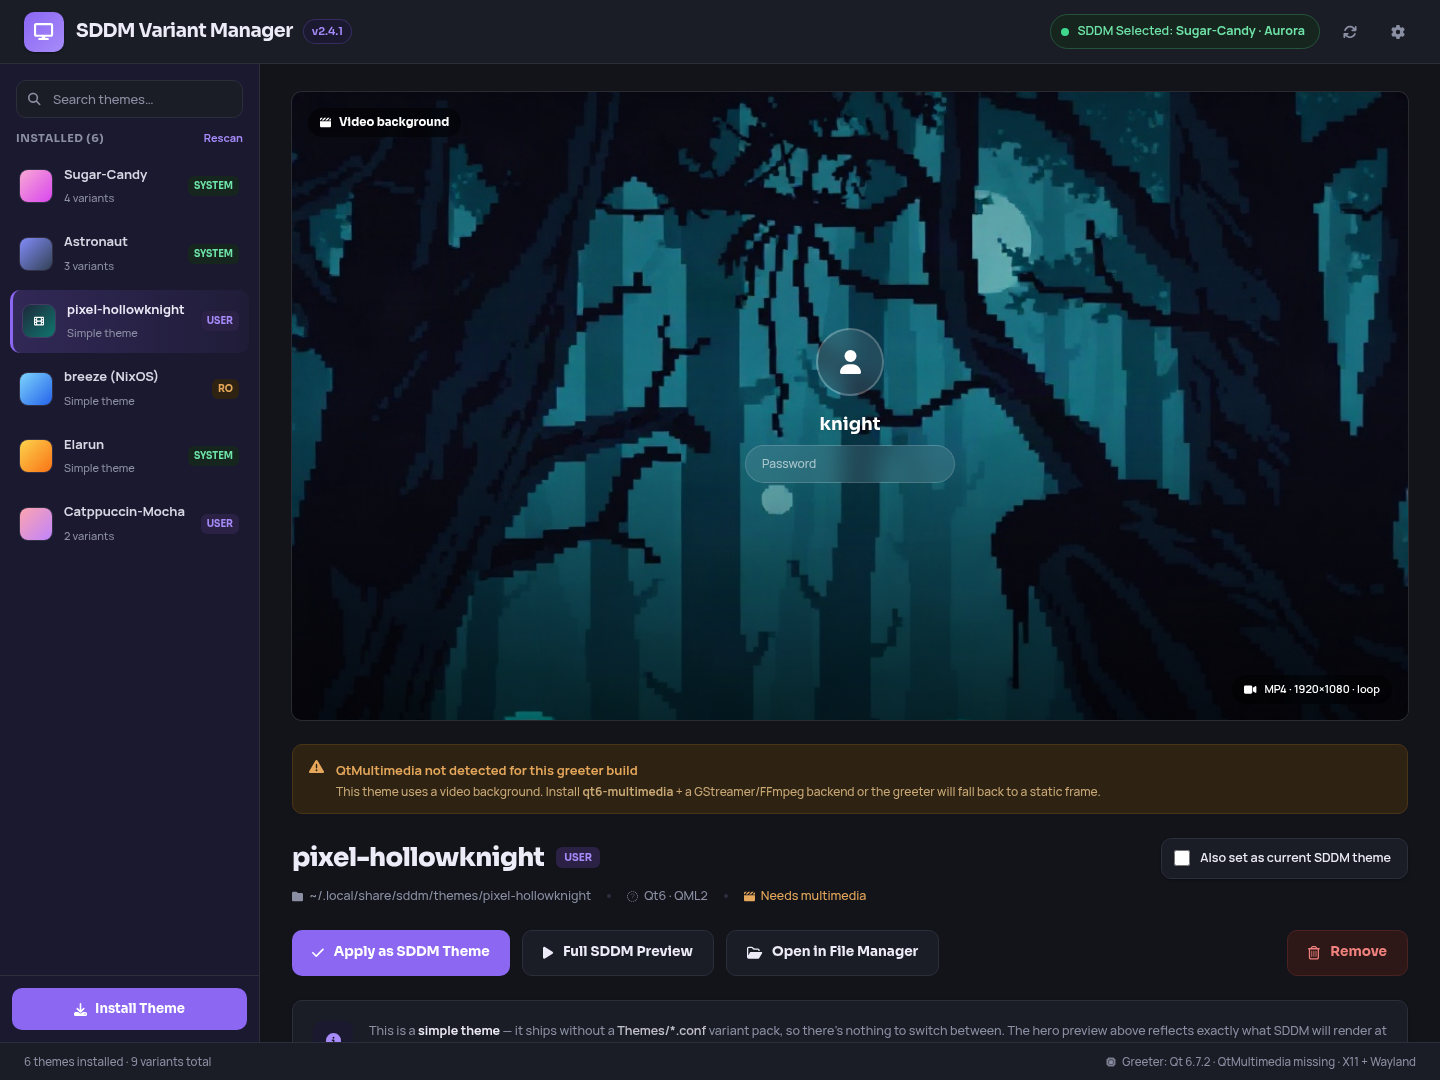
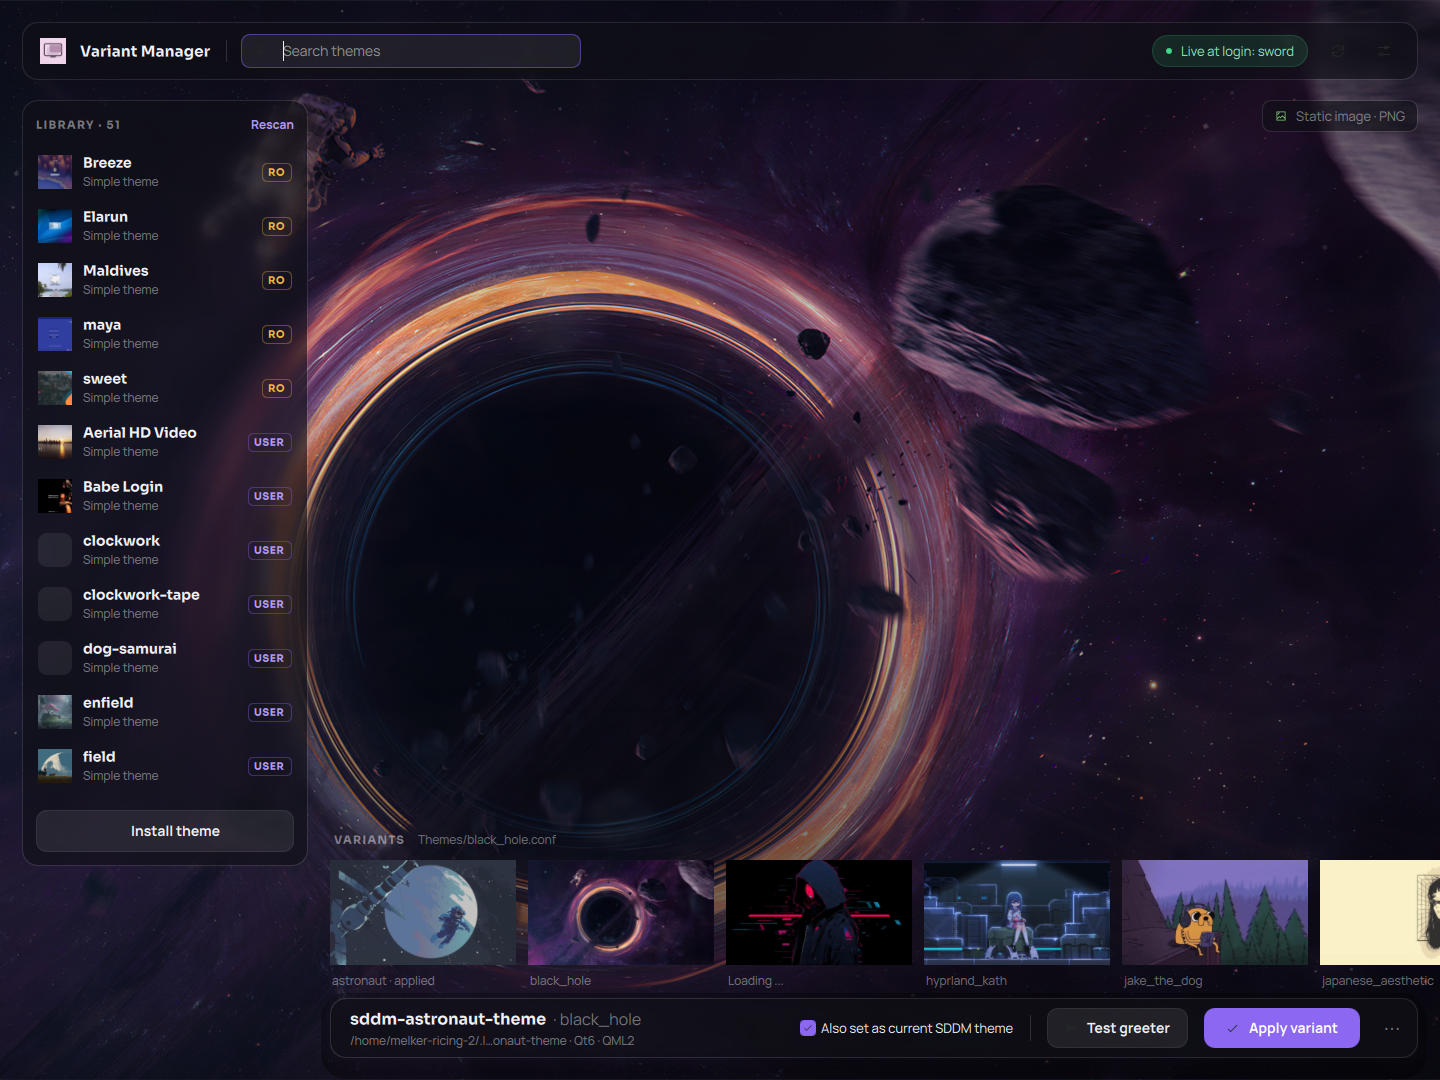
release: 2.4.0 — Palco redesign
Bumps the version everywhere (CMakeLists, main.cpp, Main.qml
appVersion, nix/package.nix, Arch PKGBUILD, appdata.xml release
history) and updates the README and screenshots for the "Palco"
redesign that shipped since the last release (2.3.0 was still the
sidebar+card design):

- New screenshots (light + dark) showing the full-window preview,
  floating glass panels, and filmstrip.
- Usage steps updated for the current button labels (Test greeter,
  Apply variant/theme, the overflow menu, the diagnostics panel).
- Documents layer-shell-qt as an optional dependency (Test Greeter's
  floating status/exit bar on Hyprland/Sway).
- Points readers who prefer the old layout at the preserved
  design/classic-ui branch.

Claude-Session: https://claude.ai/code/session_01L1QiQRUhkpcJ4uz8KQ4eiK

diff --git a/src/qml/Main.qml b/src/qml/Main.qml
@@ -60,7 +60,7 @@ Kirigami.ApplicationWindow {
     property int installTabIndex: 0
     property bool diagnosticsOpen: false
     readonly property string closePreviewHelp: "The real greeter is covering this window. Use the floating bar to close the preview, or switch back with Alt+Tab / Super+Q."
-    readonly property string appVersion: "2.3.0"
+    readonly property string appVersion: "2.4.0"
     readonly property bool canRemoveCurrentTheme: selectedThemeIndex >= 0
         && currentTheme.path
         && themeInstaller.canRemoveTheme(currentTheme.path)

diff --git a/src/main.cpp b/src/main.cpp
@@ -548,7 +548,7 @@ int main(int argc, char *argv[])
     QGuiApplication::setApplicationName(QStringLiteral("sddm-variant-manager"));
     QGuiApplication::setOrganizationName(QStringLiteral("Melker"));
     QGuiApplication::setOrganizationDomain(QStringLiteral("github.melker"));
-    QGuiApplication::setApplicationVersion(QStringLiteral("2.2.0"));
+    QGuiApplication::setApplicationVersion(QStringLiteral("2.4.0"));
     QGuiApplication::setQuitOnLastWindowClosed(true);
     QGuiApplication::setDesktopFileName(QString::fromUtf8(kAppIconName));
 

diff --git a/README.md b/README.md
@@ -5,11 +5,11 @@
 [![Nix flake](https://img.shields.io/badge/Nix-flake-informational?logo=nixos)](https://github.com/melker22/sddm-variant-manager#nixos)
 [![Qt 6](https://img.shields.io/badge/Qt-6-41CD52?logo=qt)](https://www.qt.io/)
 
-Browse, preview, apply, install, and remove **SDDM** login themes without logging out every time. Works on **Hyprland**, **Plasma**, and any other desktop that uses SDDM. Multi-variant collections such as [ZenMatrix Collection](https://github.com/OminduD/sddm-themes) show up as a filmstrip under a large 16:9 preview.
+Browse, preview, apply, install, and remove **SDDM** login themes without logging out every time. Works on **Hyprland**, **Plasma**, and any other desktop that uses SDDM. The selected theme's preview fills the whole window — the library, variant filmstrip, and controls float as frosted-glass panels above it. Multi-variant collections such as [ZenMatrix Collection](https://github.com/OminduD/sddm-themes) show up as a filmstrip along the bottom edge.
 
 Built with **Qt 6** and **Kirigami**. You do not need a Plasma session day to day — only SDDM and the libraries listed under [Requirements](#requirements).
 
-**Current version: 2.3.0**
+**Current version: 2.4.0**
 
 <table>
   <tr>
@@ -21,6 +21,8 @@ Built with **Qt 6** and **Kirigami**. You do not need a Plasma session day to da
     <td><img src="screenshot-dark.png" alt="SDDM Variant Manager in dark mode"></td>
   </tr>
 </table>
+
+Prefer the previous sidebar + card look? It's preserved as-is on the [`design/classic-ui`](https://github.com/melker22/sddm-variant-manager/tree/design/classic-ui) branch.
 
 ## Contents
 
@@ -53,9 +55,11 @@ This app fixes that: browse variants, preview backgrounds, run the **real greete
   - `/run/current-system/sw/share/sddm/themes/` and `/var/lib/sddm/themes/` (**NixOS**)
   - `~/.local/share/sddm/themes/` (per-user)
   - extra roots from `XDG_DATA_DIRS`
-- Multi-variant themes: horizontal filmstrip, apply a variant, large 16:9 stage
+- Full-window preview: the selected theme's background fills the whole app, with the library, filmstrip, and controls floating as frosted-glass panels on top
+- Multi-variant themes: horizontal filmstrip along the bottom edge, apply a variant instantly
 - Simple themes: apply as the current SDDM theme and open a full greeter preview
 - Sharp static thumbnails for video variants (cached JPEG frames via `ffmpeg`)
+- System diagnostics panel (⚙): greeter binary/stack, missing greeter modules, scanned theme directories, `ffmpeg`/`git` availability, NixOS notes
 
 **Install and remove**
 
@@ -65,7 +69,7 @@ This app fixes that: browse variants, preview backgrounds, run the **real greete
 
 **Compatibility**
 
-- Full login preview via `sddm-greeter` / `sddm-greeter-qt6 --test-mode` (picked automatically)
+- Full login preview via `sddm-greeter` / `sddm-greeter-qt6 --test-mode` (picked automatically); on Wayland compositors with `layer-shell-qt` (Hyprland, Sway) a small status chip and exit bar float over the real greeter
 - Warns when a theme’s Qt 5 / Qt 6 stack does not match your greeter
 - Detects missing greeter modules (QtMultimedia, Qt5Compat, …). Themes are **never rewritten** on disk for real login
 - **NixOS-aware:** system installs go to `/var/lib/sddm/themes/`; activating a theme writes `/etc/sddm.conf.d/` (no rebuild)
@@ -76,7 +80,7 @@ The app is **not** in official distro repos yet. Use one of the paths below.
 
 ### NixOS
 
-Enable flakes (`nix-command` + `flakes`). Do **not** copy a debug `build/` binary into the system — the flake wraps Qt, Kirigami, QtMultimedia, `ffmpeg`, and `git`.
+Enable flakes (`nix-command` + `flakes`). Do **not** copy a debug `build/` binary into the system — the flake wraps Qt, Kirigami, QtMultimedia, `layer-shell-qt`, `ffmpeg`, and `git`.
 
 **Try without installing**
 
@@ -197,7 +201,7 @@ The GUI drop-in and declarative `theme=` can conflict — remove `/etc/sddm.conf
 
 ### Arch Linux / Manjaro
 
-There is no AUR package yet. Build from `packaging/arch/` (currently **2.3.0**):
+There is no AUR package yet. Build from `packaging/arch/` (currently **2.4.0**):
 
 ```bash
 sudo pacman -S --needed base-devel
@@ -282,11 +286,12 @@ This installs the binary to `/usr/bin` and a `.desktop` entry. On NixOS prefer `
 ## Usage
 
 1. Launch **SDDM Variant Manager** from the application menu (or `sddm-variant-manager`).
-2. Pick a theme in the **library** on the left.
-3. For multi-variant themes, choose a variant in the **filmstrip**, then **Apply as SDDM Theme** (optional “Also set as current SDDM theme”).
-4. For simple themes (no `Themes/*.conf`), apply the theme as a whole.
-5. Use **Full SDDM Preview** to test the login screen.
-6. Use **Remove** on the theme stage to delete a writable installed theme. Read-only Nix store themes cannot be deleted from the app.
+2. Pick a theme in the **library** rail on the left — its background fills the window immediately.
+3. For multi-variant themes, choose a variant in the **filmstrip**, then **Apply variant** (optional “Also set as current SDDM theme”).
+4. For simple themes (no `Themes/*.conf`), **Apply theme** applies it as a whole.
+5. Use **Test greeter** to run the real login screen in test mode.
+6. Use the **⋯** menu next to Apply to open the theme's folder, copy its path, or **Remove** a writable installed theme. Read-only Nix store themes cannot be deleted from the app.
+7. Click the **⚙** icon in the header for system diagnostics — greeter binary/stack, missing modules, scanned directories, and tool availability.
 
 Applying variants, system-wide installs, system theme removals, and writing SDDM config require Polkit (`pkexec`).
 
@@ -331,9 +336,11 @@ Prefer Qt 6 themes on modern SDDM, or keep a Qt 5 greeter if your distro still p
 
 The preview is the real greeter in test mode and covers the whole screen. **This app stays open in the background.**
 
-**Plasma:** Alt+Tab → **SDDM Variant Manager** → **Close preview**
+**Hyprland / Sway** (with `layer-shell-qt` installed): a small status chip floats at the top and an exit bar with **Close preview** floats at the bottom, right over the real greeter — no window switching needed.
 
-**Hyprland:** focus the preview (usually already focused) and use your close-window bind (often `Super+Q`).
+**Plasma, or without `layer-shell-qt`:** Alt+Tab → **SDDM Variant Manager** → **Close preview**
+
+**Hyprland without the overlay:** focus the preview (usually already focused) and use your close-window bind (often `Super+Q`).
 
 ## Requirements
 
@@ -368,6 +375,14 @@ Needed for **Install Theme → GitHub**. The app clones the repo and reads `inst
 
 ```bash
 sudo pacman -S git   # Arch / Manjaro
+```
+
+**Optional — `layer-shell-qt`**
+
+Anchors the Test Greeter status chip and exit bar to the screen edges on `wlr-layer-shell` Wayland compositors (Hyprland, Sway). Without it, Test Greeter still works — you just lose that floating overlay and fall back to Alt+Tab / your close-window bind. The Nix package already includes it.
+
+```bash
+sudo pacman -S layer-shell-qt   # Arch / Manjaro
 ```
 
 ## Build
